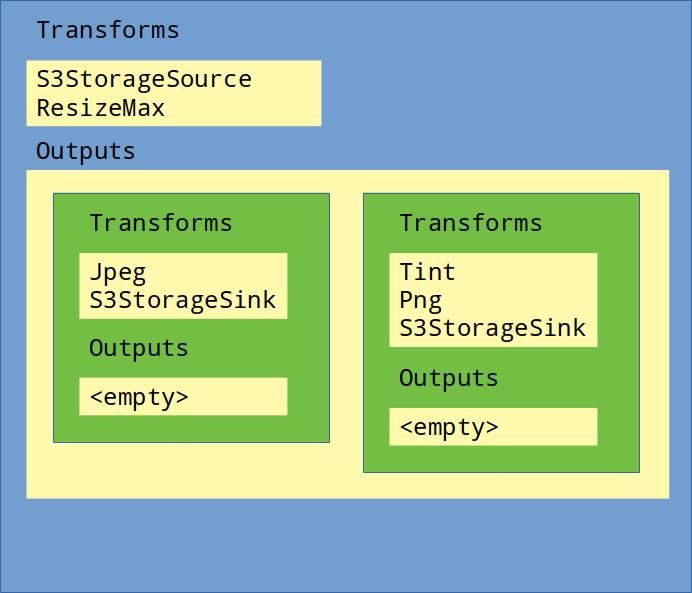
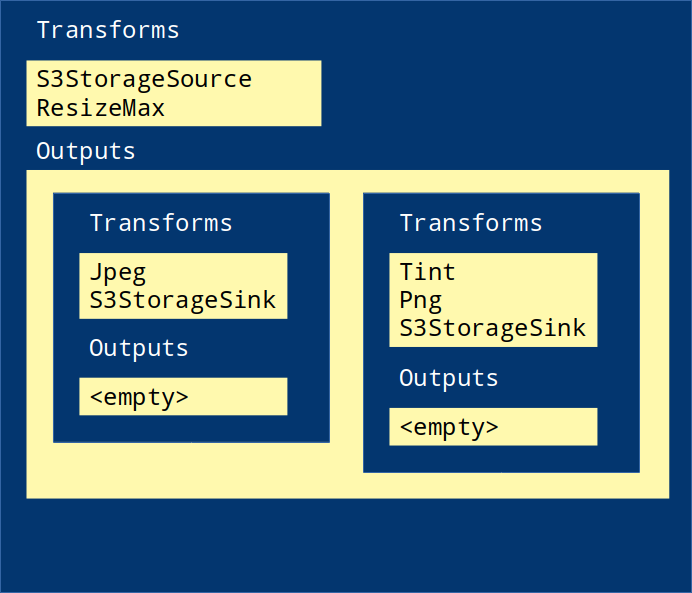
transform graphs new figures

diff --git a/source/_static/pixel-shift.css b/source/_static/pixel-shift.css
@@ -1,0 +1,3 @@
+body nav .wy-side-nav-search{
+    background-color: #03366f;
+}

diff --git a/source/conf.py b/source/conf.py
@@ -319,3 +319,4 @@ texinfo_documents = [
 def setup(app):
     app.add_javascript("//www.googletagmanager.com/gtag/js?id=UA-111871191-4")
     app.add_javascript("google_analytics.js")
+    app.add_stylesheet("pixel-shift.css")

diff --git a/source/api/introduction.rst b/source/api/introduction.rst
@@ -81,11 +81,15 @@ Once you have a client, it needs to be initialized with the OAuth token accquire
 Defining Processing Tasks 
 ===============================================
 
+Transform Units and Transform Graphs
+------------------------------------
+
 The core building blocks of processing tasks are abstract entities called *Transform Units*. Sources, Sinks and Operations such as resizing and cropping are all *Transform Units*. Processing tasks are described by chains of *Transform Units* that have been assembled into *Transform Graphs*.
 
 *Transform Graphs* consist of one or more *Transform Units* and zero or more *Output Transform Graphs* (which are themselves *Transform Graphs*).
 
-**1. Simple Transform Graphs**
+Simple Transform Graphs
+--------------------------
 
 .. figure:: images/SimpleTransformGraph.png
    :scale: 70 %
@@ -96,7 +100,8 @@ The core building blocks of processing tasks are abstract entities called *Trans
 The diagram above shows a simple standalone *Transform Graph* consisting of 4 *Transform Units* and no *Outputs*. This *Transform Graph* will fetch an image from S3 Storage, resize it once and then store it as a new jpeg in S3 Storage. For any set of operations with a single output file, a standalone *Transform Graph* is sufficient. 
 
 
-**2. Branching Transform Graphs** 
+Branching Transform Graphs
+---------------------------------
 
 A more complex operation, such as resizing a single image multiple times, or storing a resized image as multiple formats, requires nested, or branching *Transform Graphs*:
 
@@ -114,7 +119,8 @@ The above is equivalent to the following:
 
    Data flow in a branching TransformGraph.
 
-**3. Valid Transform Graphs**
+Valid Transform Graphs
+-------------------------
 
 There are no restrictions on how *Transform Graphs* are assembled, but in order to be valid, each chain of *Transform Units* that results must:
 
@@ -124,8 +130,8 @@ There are no restrictions on how *Transform Graphs* are assembled, but in order 
 
 **3. End with an ImageFormat and a StorageSink node** that define the file type and location for the result.
 
-Simple 1-1 Transform Graph
---------------------------
+Simple Example
+----------------
 
 The sample below shows how to use the the Pixelshift Node.js API Client to build a simple *Transform Graph* to fetch and image, resize it and then store it:
 
